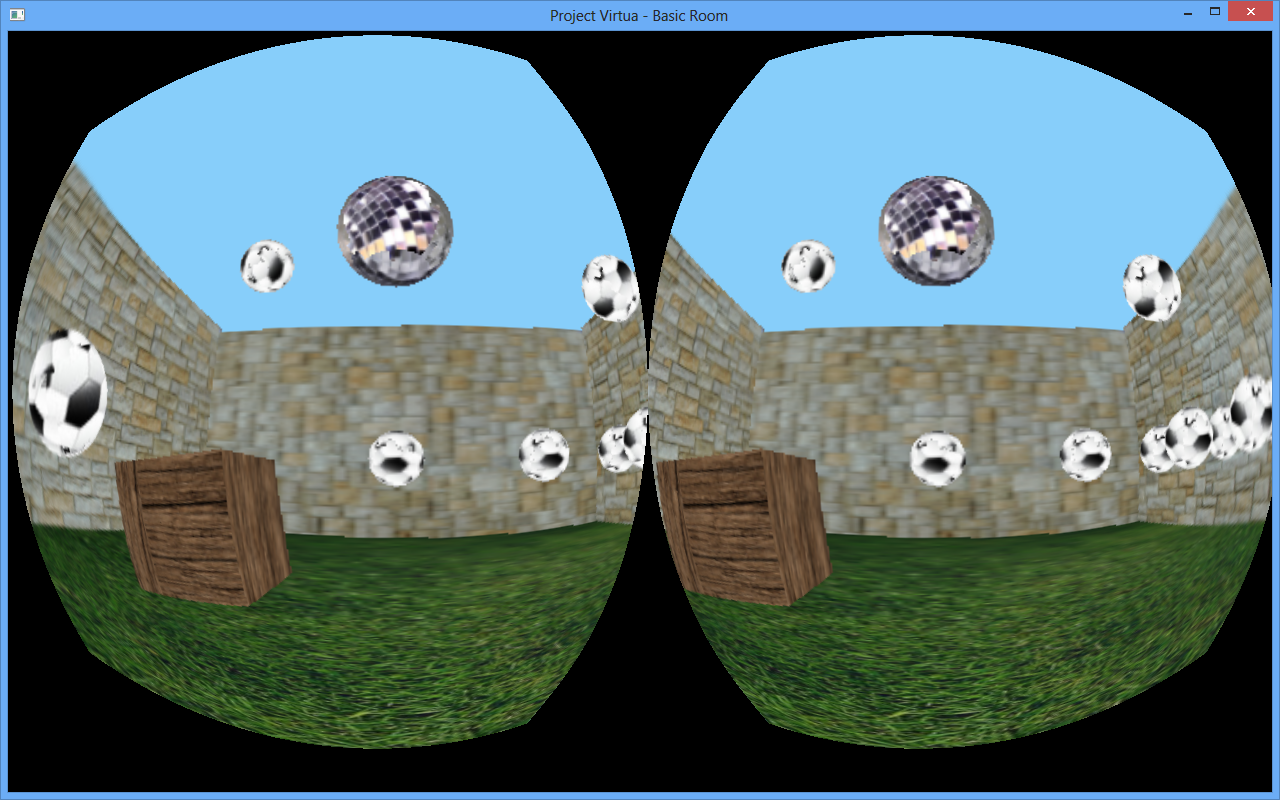
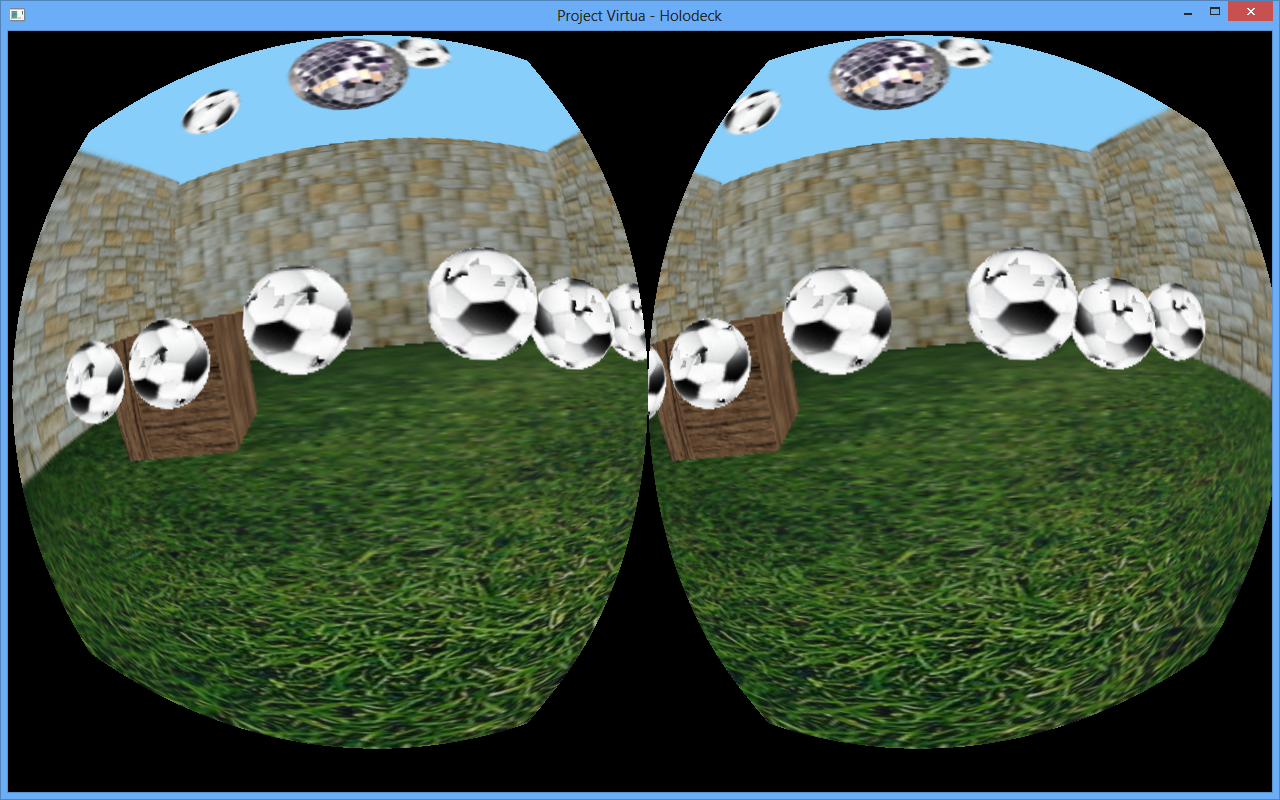
Updates -Updates holodeck preview picture -Removed bullet from "Basic Room" demo. -Made sure that the window title matched the demos (specifically for holodeck).

diff --git a/Holodeck/main.cpp b/Holodeck/main.cpp
@@ -105,7 +105,7 @@ int main()
 	Kinect1* kinect = new Kinect1();
 	MSG msg;
 
-	testWindow.create(L"Project Virtua - Basic Room");
+	testWindow.create(L"Project Virtua - Holodeck");
 	testWindow.setWindowDrawingStateGL();
 	testWindow.setVisible(true);
 
